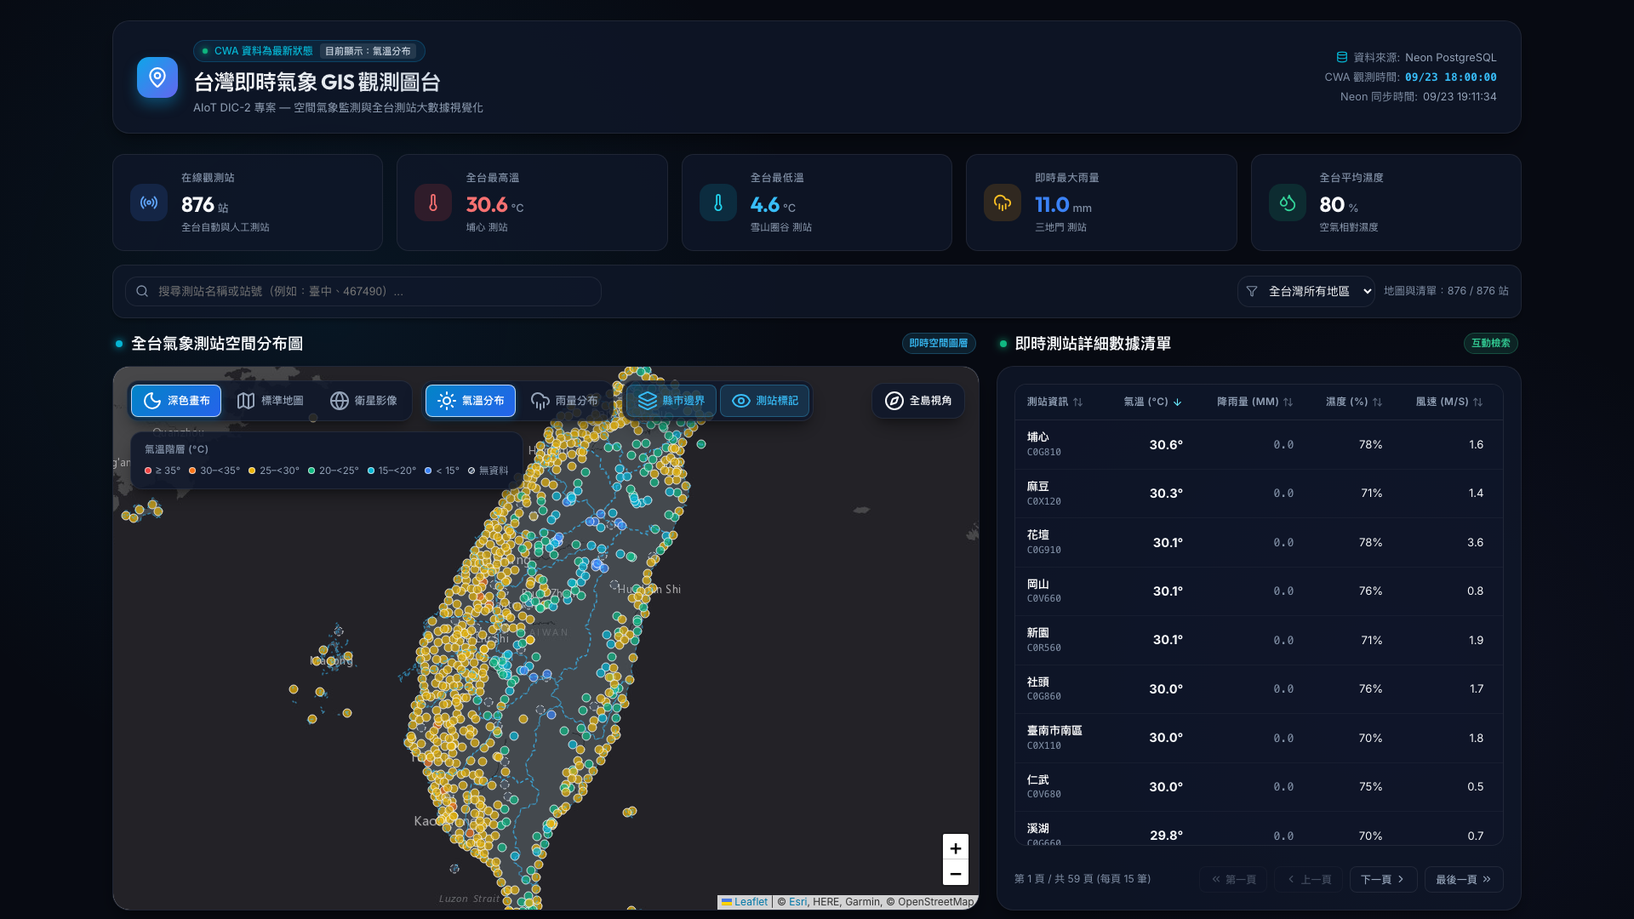
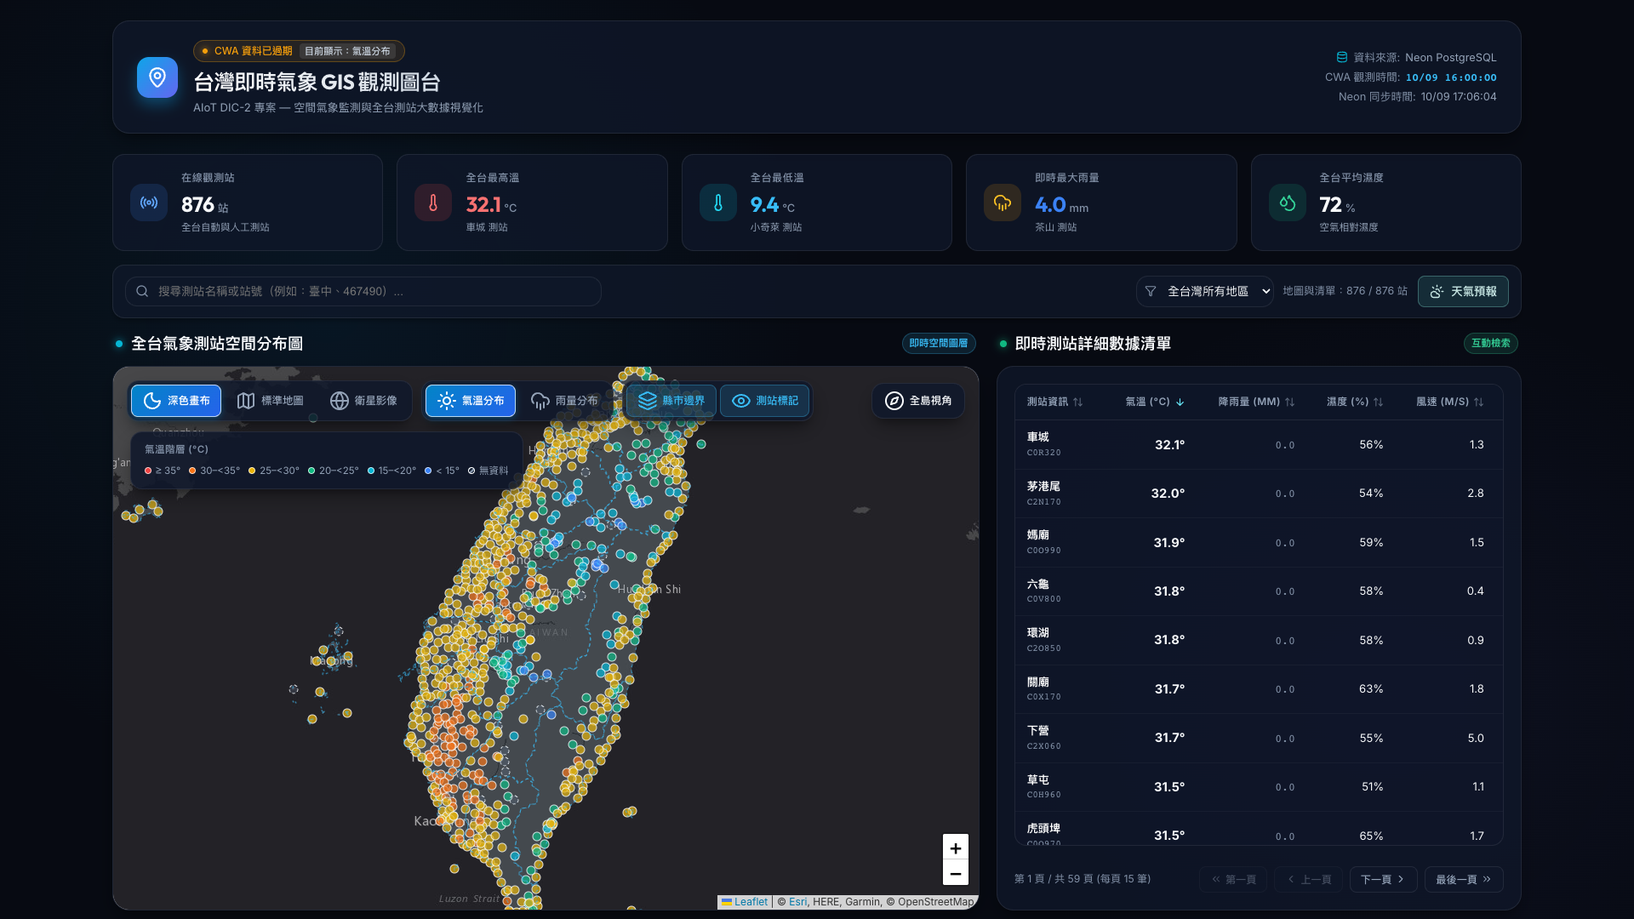
docs: refresh forecast release visuals and data flow

diff --git a/public/taiwan-weather-project-flow.html b/public/taiwan-weather-project-flow.html
@@ -4,7 +4,7 @@
   <meta charset="UTF-8">
   <meta name="viewport" content="width=device-width, initial-scale=1.0">
   <meta name="generator" content="archify 2.17.0-dev.1">
-  <title>台灣即時氣象 GIS｜資料同步、服務與部署流程 Diagram</title>
+  <title>台灣氣象 GIS｜即時觀測、36 小時預報與部署流程 Diagram</title>
   <script>
     // Resolve the theme before first paint so light-preference users don't
     // see a dark flash. The toolbar script below re-applies with UI state.
@@ -5081,7 +5081,7 @@ OTHER DEALINGS IN THE FONT SOFTWARE.
            data-preset-badge-blueprint="BLUEPRINT / REV 01"
            data-preset-badge-editorial="EDITORIAL / FIELD NOTE">
         <div class="pulse-dot"></div>
-        <h1>台灣即時氣象 GIS｜資料同步、服務與部署流程</h1>
+        <h1>台灣氣象 GIS｜即時觀測、36 小時預報與部署流程</h1>
       </div>
     </div>
 
@@ -5131,7 +5131,7 @@ OTHER DEALINGS IN THE FONT SOFTWARE.
     <div class="diagram-container" data-detail-level="read"
          data-preset-badge-editorial-plate="ARCHIFY / PLATE 04">
       <svg viewBox="0 0 1080 620" role="img" lang="en" aria-labelledby="archify-diagram-title archify-diagram-description" data-preset="classic" data-quality-profile="showcase">
-        <title id="archify-diagram-title">台灣即時氣象 GIS｜資料同步、服務與部署流程</title>
+        <title id="archify-diagram-title">台灣氣象 GIS｜即時觀測、36 小時預報與部署流程</title>
         <desc id="archify-diagram-description">A data-flow diagram generated by Archify.</desc>
         <!-- Definitions -->
         <defs>
@@ -5175,10 +5175,12 @@ OTHER DEALINGS IN THE FONT SOFTWARE.
         <path data-edge-from="hourlyScheduler" data-edge-to="refreshEndpoint" data-edge-label="每小時授權請求" data-edge-key="0" data-edge-id="scheduledRefresh" data-composition-points="156,157;207.5,157;207.5,271;259,271" d="M 156 157 L 207.5 157 L 207.5 271 L 259 271" class="a-security" stroke-width="1.4" marker-end="url(#arrowhead-security)"/>
         <path data-edge-from="refreshEndpoint" data-edge-to="weatherPipeline" data-edge-label="取得同步執行權" data-edge-key="1" data-edge-id="authorizedRun" data-composition-points="371,271;474,271" d="M 371 271 L 474 271" class="a-security" stroke-width="1.4" marker-end="url(#arrowhead-security)"/>
         <path data-edge-from="cwaOpenData" data-edge-to="refreshEndpoint" data-edge-label="全台觀測資料" data-edge-key="2" data-edge-id="cwaObservations" data-composition-points="156,271;259,271" d="M 156 271 L 259 271" class="a-emphasis" stroke-width="1.8" marker-end="url(#arrowhead-emphasis)"/>
-        <path data-edge-from="weatherPipeline" data-edge-to="neonSnapshot" data-edge-label="驗證後原子替換" data-edge-key="3" data-edge-id="atomicSnapshot" data-composition-points="586,271;689,271" d="M 586 271 L 689 271" class="a-emphasis" stroke-width="1.8" marker-end="url(#arrowhead-emphasis)"/>
-        <path data-edge-from="neonSnapshot" data-edge-to="webGisDashboard" data-edge-label="查詢" data-edge-key="4" data-edge-id="latestSnapshot" data-composition-points="801,271;904,271" d="M 801 271 L 904 271" class="a-emphasis" stroke-width="1.8" marker-end="url(#arrowhead-emphasis)"/>
-        <path data-edge-from="neonSnapshot" data-edge-to="operationsMonitor" data-edge-label="健康指標與錯誤碼" data-edge-key="5" data-edge-id="healthMetrics" data-composition-points="801,271;852.5,271;852.5,385;904,385" d="M 801 271 L 852.5 271 L 852.5 385 L 904 385" class="a-dashed" stroke-width="1.4" marker-end="url(#arrowhead-dashed)"/>
-        <path data-edge-from="githubRepository" data-edge-to="vercelDeploy" data-edge-label="main Push 自動發布" data-edge-key="6" data-edge-id="sourcePush" data-composition-points="156,499;689,499" d="M 156 499 L 689 499" class="a-dashed" stroke-width="1.4" marker-end="url(#arrowhead-dashed)"/>
+        <path data-edge-from="cwaForecast" data-edge-to="forecastEndpoint" data-edge-label="縣市預報資料" data-edge-key="3" data-edge-id="cwaForecastData" data-composition-points="156,385;259,385" d="M 156 385 L 259 385" class="a-default" stroke-width="1.4" marker-end="url(#arrowhead)"/>
+        <path data-edge-from="weatherPipeline" data-edge-to="neonSnapshot" data-edge-label="驗證後原子替換" data-edge-key="4" data-edge-id="atomicSnapshot" data-composition-points="586,271;689,271" d="M 586 271 L 689 271" class="a-emphasis" stroke-width="1.8" marker-end="url(#arrowhead-emphasis)"/>
+        <path data-edge-from="neonSnapshot" data-edge-to="webGisDashboard" data-edge-label="查詢" data-edge-key="5" data-edge-id="latestSnapshot" data-composition-points="801,271;852.5,271;852.5,157;904,157" d="M 801 271 L 852.5 271 L 852.5 157 L 904 157" class="a-emphasis" stroke-width="1.8" marker-end="url(#arrowhead-emphasis)"/>
+        <path data-edge-from="forecastEndpoint" data-edge-to="forecastCards" data-edge-label="三時段預報" data-edge-key="6" data-edge-id="forecastResponse" data-composition-points="371,385;904,385" d="M 371 385 L 904 385" class="a-default" stroke-width="1.4" marker-end="url(#arrowhead)"/>
+        <path data-edge-from="neonSnapshot" data-edge-to="operationsMonitor" data-edge-label="健康指標與錯誤碼" data-edge-key="7" data-edge-id="healthMetrics" data-composition-points="801,271;904,271" d="M 801 271 L 904 271" class="a-dashed" stroke-width="1.4" marker-end="url(#arrowhead-dashed)"/>
+        <path data-edge-from="githubRepository" data-edge-to="vercelDeploy" data-edge-label="main Push 自動發布" data-edge-key="8" data-edge-id="sourcePush" data-composition-points="156,499;689,499" d="M 156 499 L 689 499" class="a-dashed" stroke-width="1.4" marker-end="url(#arrowhead-dashed)"/>
 
         <!-- Nodes -->
         <g id="node-hourlyScheduler" data-node-id="hourlyScheduler" data-node-label="GitHub Actions" tabindex="0" role="button" aria-label="Focus GitHub Actions, 每小時排程, 01 / 觸發與來源" aria-pressed="false" data-node-kind="cloud" data-node-sublabel="每小時排程" data-node-tag="CRON_SECRET" data-node-context="01 / 觸發與來源">
@@ -5206,6 +5208,19 @@ OTHER DEALINGS IN THE FONT SOFTWARE.
         <text data-detail="fine" x="100" y="289" class="t-external" font-size="7" text-anchor="middle">JSON</text>
         </g>
 
+        <g id="node-cwaForecast" data-node-id="cwaForecast" data-node-label="CWA 36 小時預報" tabindex="0" role="button" aria-label="Focus CWA 36 小時預報, F-C0032-001・22 縣市, 01 / 觸發與來源" aria-pressed="false" data-node-kind="external" data-node-sublabel="F-C0032-001・22 縣市" data-node-tag="JSON" data-node-context="01 / 觸發與來源">
+          <title>CWA 36 小時預報 · F-C0032-001・22 縣市 · 01 / 觸發與來源 · JSON</title>
+          <rect x="44" y="356" width="112" height="58" rx="6" class="c-mask"/>
+          <rect x="44" y="356" width="112" height="58" rx="6" class="c-external" stroke-width="1.5"/>
+          <g aria-hidden="true" data-semantic-sigil="external" class="semantic-sigil s-external" transform="translate(50 362) scale(0.6875)">
+            <rect x="2.5" y="5" width="8.5" height="8" rx="1.5"/>
+            <path d="M8 2.5h5.5V8M13.5 2.5 7.5 8.5"/>
+          </g>
+          <text data-node-label="" data-detail-anchor="" x="100" y="377" class="t-primary" font-size="10" font-weight="600" text-anchor="middle">CWA 36 小時預報</text>
+          <text data-detail="context" x="100" y="393" class="t-muted" font-size="7" text-anchor="middle">F-C0032-001・22 縣市</text>
+        <text data-detail="fine" x="100" y="403" class="t-external" font-size="7" text-anchor="middle">JSON</text>
+        </g>
+
         <g id="node-githubRepository" data-node-id="githubRepository" data-node-label="GitHub Repository" tabindex="0" role="button" aria-label="Focus GitHub Repository, main 分支, 01 / 觸發與來源" aria-pressed="false" data-node-kind="cloud" data-node-sublabel="main 分支" data-node-tag="Git Push" data-node-context="01 / 觸發與來源">
           <title>GitHub Repository · main 分支 · 01 / 觸發與來源 · Git Push</title>
           <rect x="44" y="470" width="112" height="58" rx="6" class="c-mask"/>
@@ -5229,6 +5244,18 @@ OTHER DEALINGS IN THE FONT SOFTWARE.
           <text data-node-label="" data-detail-anchor="" x="315" y="263" class="t-primary" font-size="10" font-weight="600" text-anchor="middle">/api/refresh</text>
           <text data-detail="context" x="315" y="279" class="t-muted" font-size="7" text-anchor="middle">Bearer 驗證與租約鎖</text>
         <text data-detail="fine" x="315" y="289" class="t-security" font-size="7" text-anchor="middle">Server-to-Server</text>
+        </g>
+
+        <g id="node-forecastEndpoint" data-node-id="forecastEndpoint" data-node-label="/api/forecast" tabindex="0" role="button" aria-label="Focus /api/forecast, 伺服器取數・快取 30 分鐘, 02 / 安全入口" aria-pressed="false" data-node-kind="backend" data-node-sublabel="伺服器取數・快取 30 分鐘" data-node-tag="Public GET" data-node-context="02 / 安全入口">
+          <title>/api/forecast · 伺服器取數・快取 30 分鐘 · 02 / 安全入口 · Public GET</title>
+          <rect x="259" y="356" width="112" height="58" rx="6" class="c-mask"/>
+          <rect x="259" y="356" width="112" height="58" rx="6" class="c-backend" stroke-width="1.5"/>
+          <g aria-hidden="true" data-semantic-sigil="backend" class="semantic-sigil s-backend" transform="translate(265 362) scale(0.6875)">
+            <path d="M6 3 3 8l3 5M10 3l3 5-3 5"/>
+          </g>
+          <text data-node-label="" data-detail-anchor="" x="315" y="377" class="t-primary" font-size="10" font-weight="600" text-anchor="middle">/api/forecast</text>
+          <text data-detail="context" x="315" y="393" class="t-muted" font-size="7" text-anchor="middle">伺服器取數・快取 30 分鐘</text>
+        <text data-detail="fine" x="315" y="403" class="t-backend" font-size="7" text-anchor="middle">Public GET</text>
         </g>
 
         <g id="node-weatherPipeline" data-node-id="weatherPipeline" data-node-label="氣象資料處理管線" tabindex="0" role="button" aria-label="Focus 氣象資料處理管線, 正規化、完整性與時效驗證, 03 / 驗證與發布" aria-pressed="false" data-node-kind="backend" data-node-sublabel="正規化、完整性與時效驗證" data-node-tag="Fail Closed" data-node-context="03 / 驗證與發布">
@@ -5270,29 +5297,44 @@ OTHER DEALINGS IN THE FONT SOFTWARE.
 
         <g id="node-webGisDashboard" data-node-id="webGisDashboard" data-node-label="Taiwan Weather GIS" tabindex="0" role="button" aria-label="Focus Taiwan Weather GIS, Leaflet 地圖與測站清單, 05 / 視覺化與維運" aria-pressed="false" data-node-kind="frontend" data-node-sublabel="Leaflet 地圖與測站清單" data-node-tag="876 Stations" data-node-context="05 / 視覺化與維運">
           <title>Taiwan Weather GIS · Leaflet 地圖與測站清單 · 05 / 視覺化與維運 · 876 Stations</title>
-          <rect x="904" y="242" width="112" height="58" rx="6" class="c-mask"/>
-          <rect x="904" y="242" width="112" height="58" rx="6" class="c-frontend" stroke-width="1.5"/>
-          <g aria-hidden="true" data-semantic-sigil="frontend" class="semantic-sigil s-frontend" transform="translate(910 248) scale(0.6875)">
+          <rect x="904" y="128" width="112" height="58" rx="6" class="c-mask"/>
+          <rect x="904" y="128" width="112" height="58" rx="6" class="c-frontend" stroke-width="1.5"/>
+          <g aria-hidden="true" data-semantic-sigil="frontend" class="semantic-sigil s-frontend" transform="translate(910 134) scale(0.6875)">
             <rect x="2" y="3" width="12" height="10" rx="2"/>
             <path d="M2 6.5h12"/>
             <circle cx="4.1" cy="4.8" r=".7" class="sigil-fill"/>
             <circle cx="6.3" cy="4.8" r=".7" class="sigil-fill"/>
           </g>
-          <text data-node-label="" data-detail-anchor="" x="960" y="263" class="t-primary" font-size="9.6" font-weight="600" text-anchor="middle">Taiwan Weather GIS</text>
-          <text data-detail="context" x="960" y="279" class="t-muted" font-size="7" text-anchor="middle">Leaflet 地圖與測站清單</text>
-        <text data-detail="fine" x="960" y="289" class="t-frontend" font-size="7" text-anchor="middle">876 Stations</text>
+          <text data-node-label="" data-detail-anchor="" x="960" y="149" class="t-primary" font-size="9.6" font-weight="600" text-anchor="middle">Taiwan Weather GIS</text>
+          <text data-detail="context" x="960" y="165" class="t-muted" font-size="7" text-anchor="middle">Leaflet 地圖與測站清單</text>
+        <text data-detail="fine" x="960" y="175" class="t-frontend" font-size="7" text-anchor="middle">876 Stations</text>
+        </g>
+
+        <g id="node-forecastCards" data-node-id="forecastCards" data-node-label="縣市預報卡片" tabindex="0" role="button" aria-label="Focus 縣市預報卡片, 三時段・天氣／溫度／降雨, 05 / 視覺化與維運" aria-pressed="false" data-node-kind="frontend" data-node-sublabel="三時段・天氣／溫度／降雨" data-node-tag="36 Hours" data-node-context="05 / 視覺化與維運">
+          <title>縣市預報卡片 · 三時段・天氣／溫度／降雨 · 05 / 視覺化與維運 · 36 Hours</title>
+          <rect x="904" y="356" width="112" height="58" rx="6" class="c-mask"/>
+          <rect x="904" y="356" width="112" height="58" rx="6" class="c-frontend" stroke-width="1.5"/>
+          <g aria-hidden="true" data-semantic-sigil="frontend" class="semantic-sigil s-frontend" transform="translate(910 362) scale(0.6875)">
+            <rect x="2" y="3" width="12" height="10" rx="2"/>
+            <path d="M2 6.5h12"/>
+            <circle cx="4.1" cy="4.8" r=".7" class="sigil-fill"/>
+            <circle cx="6.3" cy="4.8" r=".7" class="sigil-fill"/>
+          </g>
+          <text data-node-label="" data-detail-anchor="" x="960" y="377" class="t-primary" font-size="10" font-weight="600" text-anchor="middle">縣市預報卡片</text>
+          <text data-detail="context" x="960" y="393" class="t-muted" font-size="7" text-anchor="middle">三時段・天氣／溫度／降雨</text>
+        <text data-detail="fine" x="960" y="403" class="t-frontend" font-size="7" text-anchor="middle">36 Hours</text>
         </g>
 
         <g id="node-operationsMonitor" data-node-id="operationsMonitor" data-node-label="維運健康檢查" tabindex="0" role="button" aria-label="Focus 維運健康檢查, 同步狀態、筆數與錯誤碼, 05 / 視覺化與維運" aria-pressed="false" data-node-kind="backend" data-node-sublabel="同步狀態、筆數與錯誤碼" data-node-tag="ops:status" data-node-context="05 / 視覺化與維運">
           <title>維運健康檢查 · 同步狀態、筆數與錯誤碼 · 05 / 視覺化與維運 · ops:status</title>
-          <rect x="904" y="356" width="112" height="58" rx="6" class="c-mask"/>
-          <rect x="904" y="356" width="112" height="58" rx="6" class="c-backend" stroke-width="1.5"/>
-          <g aria-hidden="true" data-semantic-sigil="backend" class="semantic-sigil s-backend" transform="translate(910 362) scale(0.6875)">
+          <rect x="904" y="242" width="112" height="58" rx="6" class="c-mask"/>
+          <rect x="904" y="242" width="112" height="58" rx="6" class="c-backend" stroke-width="1.5"/>
+          <g aria-hidden="true" data-semantic-sigil="backend" class="semantic-sigil s-backend" transform="translate(910 248) scale(0.6875)">
             <path d="M6 3 3 8l3 5M10 3l3 5-3 5"/>
           </g>
-          <text data-node-label="" data-detail-anchor="" x="960" y="377" class="t-primary" font-size="10" font-weight="600" text-anchor="middle">維運健康檢查</text>
-          <text data-detail="context" x="960" y="393" class="t-muted" font-size="7" text-anchor="middle">同步狀態、筆數與錯誤碼</text>
-        <text data-detail="fine" x="960" y="403" class="t-backend" font-size="7" text-anchor="middle">ops:status</text>
+          <text data-node-label="" data-detail-anchor="" x="960" y="263" class="t-primary" font-size="10" font-weight="600" text-anchor="middle">維運健康檢查</text>
+          <text data-detail="context" x="960" y="279" class="t-muted" font-size="7" text-anchor="middle">同步狀態、筆數與錯誤碼</text>
+        <text data-detail="fine" x="960" y="289" class="t-backend" font-size="7" text-anchor="middle">ops:status</text>
         </g>
 
         <!-- Flow labels -->
@@ -5311,22 +5353,32 @@ OTHER DEALINGS IN THE FONT SOFTWARE.
           <text x="207.5" y="314" class="t-backend" font-size="8" text-anchor="middle">全台觀測資料</text>
         <text data-detail="fine" x="207.5" y="325" class="t-dim" font-size="7" text-anchor="middle">CWA JSON</text>
         </g>
-        <g data-detail="context" data-edge-from="weatherPipeline" data-edge-to="neonSnapshot" data-edge-label="驗證後原子替換" data-edge-key="3" data-edge-id="atomicSnapshot">
+        <g data-detail="context" data-edge-from="cwaForecast" data-edge-to="forecastEndpoint" data-edge-label="縣市預報資料" data-edge-key="3" data-edge-id="cwaForecastData">
+          <rect x="172.1" y="364" width="70.8" height="27" rx="4" class="c-mask"/>
+          <text x="207.5" y="375" class="t-muted" font-size="8" text-anchor="middle">縣市預報資料</text>
+        <text data-detail="fine" x="207.5" y="386" class="t-dim" font-size="7" text-anchor="middle">CWA JSON</text>
+        </g>
+        <g data-detail="context" data-edge-from="weatherPipeline" data-edge-to="neonSnapshot" data-edge-label="驗證後原子替換" data-edge-key="4" data-edge-id="atomicSnapshot">
           <rect x="592.3" y="250" width="90.4" height="27" rx="4" class="c-mask"/>
           <text x="637.5" y="261" class="t-backend" font-size="8" text-anchor="middle">驗證後原子替換</text>
         <text data-detail="fine" x="637.5" y="272" class="t-dim" font-size="7" text-anchor="middle">876-row snapshot</text>
         </g>
-        <g data-detail="context" data-edge-from="neonSnapshot" data-edge-to="webGisDashboard" data-edge-label="查詢" data-edge-key="4" data-edge-id="latestSnapshot">
-          <rect x="750.95" y="210" width="203.1" height="27" rx="4" class="c-mask"/>
-          <text x="852.5" y="221" class="t-backend" font-size="8" text-anchor="middle">查詢</text>
-        <text data-detail="fine" x="852.5" y="232" class="t-dim" font-size="7" text-anchor="middle">GET /api/weather · latest snapshot JSON</text>
+        <g data-detail="context" data-edge-from="neonSnapshot" data-edge-to="webGisDashboard" data-edge-label="查詢" data-edge-key="5" data-edge-id="latestSnapshot">
+          <rect x="750.95" y="193" width="203.1" height="27" rx="4" class="c-mask"/>
+          <text x="852.5" y="204" class="t-backend" font-size="8" text-anchor="middle">查詢</text>
+        <text data-detail="fine" x="852.5" y="215" class="t-dim" font-size="7" text-anchor="middle">GET /api/weather · latest snapshot JSON</text>
         </g>
-        <g data-detail="context" data-edge-from="neonSnapshot" data-edge-to="operationsMonitor" data-edge-label="健康指標與錯誤碼" data-edge-key="5" data-edge-id="healthMetrics">
-          <rect x="804.85" y="307" width="95.3" height="27" rx="4" class="c-mask"/>
-          <text x="852.5" y="318" class="t-messagebus" font-size="8" text-anchor="middle">健康指標與錯誤碼</text>
-        <text data-detail="fine" x="852.5" y="329" class="t-dim" font-size="7" text-anchor="middle">operational query</text>
+        <g data-detail="context" data-edge-from="forecastEndpoint" data-edge-to="forecastCards" data-edge-label="三時段預報" data-edge-key="6" data-edge-id="forecastResponse">
+          <rect x="555.55" y="364" width="163.9" height="27" rx="4" class="c-mask"/>
+          <text x="637.5" y="375" class="t-muted" font-size="8" text-anchor="middle">三時段預報</text>
+        <text data-detail="fine" x="637.5" y="386" class="t-dim" font-size="7" text-anchor="middle">GET /api/forecast · 不寫入 Neon</text>
         </g>
-        <g data-detail="context" data-edge-from="githubRepository" data-edge-to="vercelDeploy" data-edge-label="main Push 自動發布" data-edge-key="6" data-edge-id="sourcePush">
+        <g data-detail="context" data-edge-from="neonSnapshot" data-edge-to="operationsMonitor" data-edge-label="健康指標與錯誤碼" data-edge-key="7" data-edge-id="healthMetrics">
+          <rect x="804.85" y="285" width="95.3" height="27" rx="4" class="c-mask"/>
+          <text x="852.5" y="296" class="t-messagebus" font-size="8" text-anchor="middle">健康指標與錯誤碼</text>
+        <text data-detail="fine" x="852.5" y="307" class="t-dim" font-size="7" text-anchor="middle">operational query</text>
+        </g>
+        <g data-detail="context" data-edge-from="githubRepository" data-edge-to="vercelDeploy" data-edge-label="main Push 自動發布" data-edge-key="8" data-edge-id="sourcePush">
           <rect x="372.4" y="478" width="100.2" height="27" rx="4" class="c-mask"/>
           <text x="422.5" y="489" class="t-messagebus" font-size="8" text-anchor="middle">main Push 自動發布</text>
         <text data-detail="fine" x="422.5" y="500" class="t-dim" font-size="7" text-anchor="middle">verified build</text>
@@ -5350,6 +5402,10 @@ OTHER DEALINGS IN THE FONT SOFTWARE.
           <g data-legend-semantic-kind="database" data-legend-kind="database" data-legend-label="data store" data-legend-x="410" data-legend-baseline="584" data-legend-width="93">
             <rect x="410" y="576" width="14" height="9" rx="2" class="c-database" stroke-width="1"/>
             <text x="432" y="584" class="t-muted" font-size="10" font-weight="500">data store</text>
+          </g>
+          <g data-legend-semantic-kind="default" data-legend-x="525" data-legend-baseline="584" data-legend-width="88">
+            <path d="M 525 581 L 559 581" class="a-default" stroke-width="1.4" marker-end="url(#arrowhead)"/>
+            <text x="568" y="584" class="t-muted" font-size="10" font-weight="500">data flow</text>
           </g>
         </g>
       </svg>

diff --git a/README.md b/README.md
@@ -19,7 +19,13 @@
 
 ### [▶ 開啟 Taiwan Weather GIS Live Demo](https://taiwan-weather-site.vercel.app)
 
-[![台灣即時氣象 GIS 觀測圖台預覽，包含全台測站地圖、氣象統計卡與詳細資料表](./public/taiwan-weather-dashboard.png)](https://taiwan-weather-site.vercel.app)
+[![台灣即時氣象 GIS 最新觀測圖台，包含全台測站地圖、統計卡、資料表與天氣預報入口](./public/taiwan-weather-dashboard.png)](https://taiwan-weather-site.vercel.app)
+
+點選「天氣預報」並選擇縣市，即可在地圖旁查看未來 36 小時的三個預報時段：
+
+[![選擇臺中市後顯示三張天氣預報卡、測站地圖與資料表](./public/taiwan-weather-forecast.png)](https://taiwan-weather-site.vercel.app)
+
+> 截圖攝於 2026-10-09；畫面中的觀測數值、資料時間與預報內容會隨 CWA 更新，請以 Live 網站為準。預報卡為縣市預報，並非測站觀測值。
 
 進入網站後可以：
 
@@ -28,6 +34,8 @@
 - 從右側資料表定位測站，地圖會移動至該位置並開啟詳細資訊視窗。
 
 > **資料更新狀態**：Live 網站從 Neon PostgreSQL 讀取最新成功同步的 CWA 快照；GitHub Actions 排定每小時第 17 分鐘觸發更新，實際開始時間可能受 GitHub 排程負載影響。同步失敗時會保留前一份有效快照。
+
+**2026-10-09 更新**：[PR #6](https://github.com/iloveu-tw/0921_TW_weather_site/pull/6) 將縣市 36 小時預報部署至 Production；Preview 三張預報卡與 Live 新舊功能的手動抽檢均已通過。
 
 ---
 
@@ -57,6 +65,7 @@
 > 點擊流程圖可開啟互動版本，支援亮／暗主題、搜尋、節點聚焦、路徑追蹤、縮放與匯出。
 
 - **綠色主線**：CWA 觀測資料經安全入口、驗證管線與 PostgreSQL Transaction 寫入 Neon，再由 Web GIS 查詢最新有效快照。
+- **灰色預報線**：CWA `F-C0032-001` 經伺服器端 `/api/forecast` 讀取並快取 30 分鐘，在選定縣市後顯示三張預報卡；預報不寫入 Neon 觀測快照。
 - **紅色安全線**：GitHub Actions 每小時使用 `CRON_SECRET` 呼叫 `/api/refresh`，Neon 租約鎖避免重複同步。
 - **紫色維運／發布線**：同步健康狀態可獨立檢查；`main` Push 會觸發 Vercel Production 自動部署。
 
